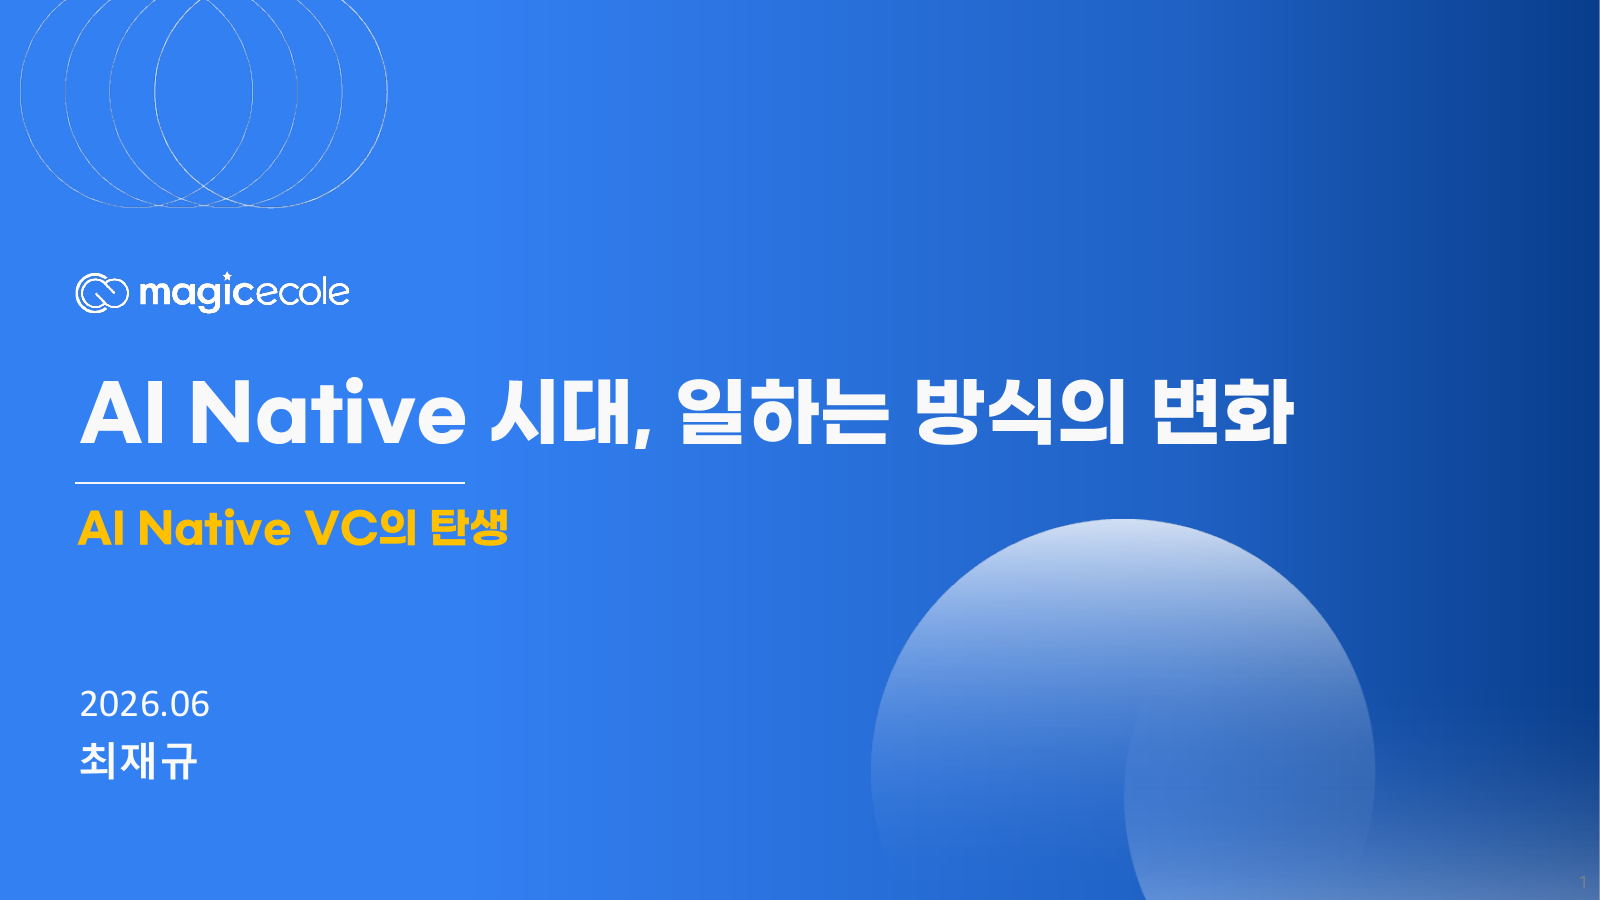
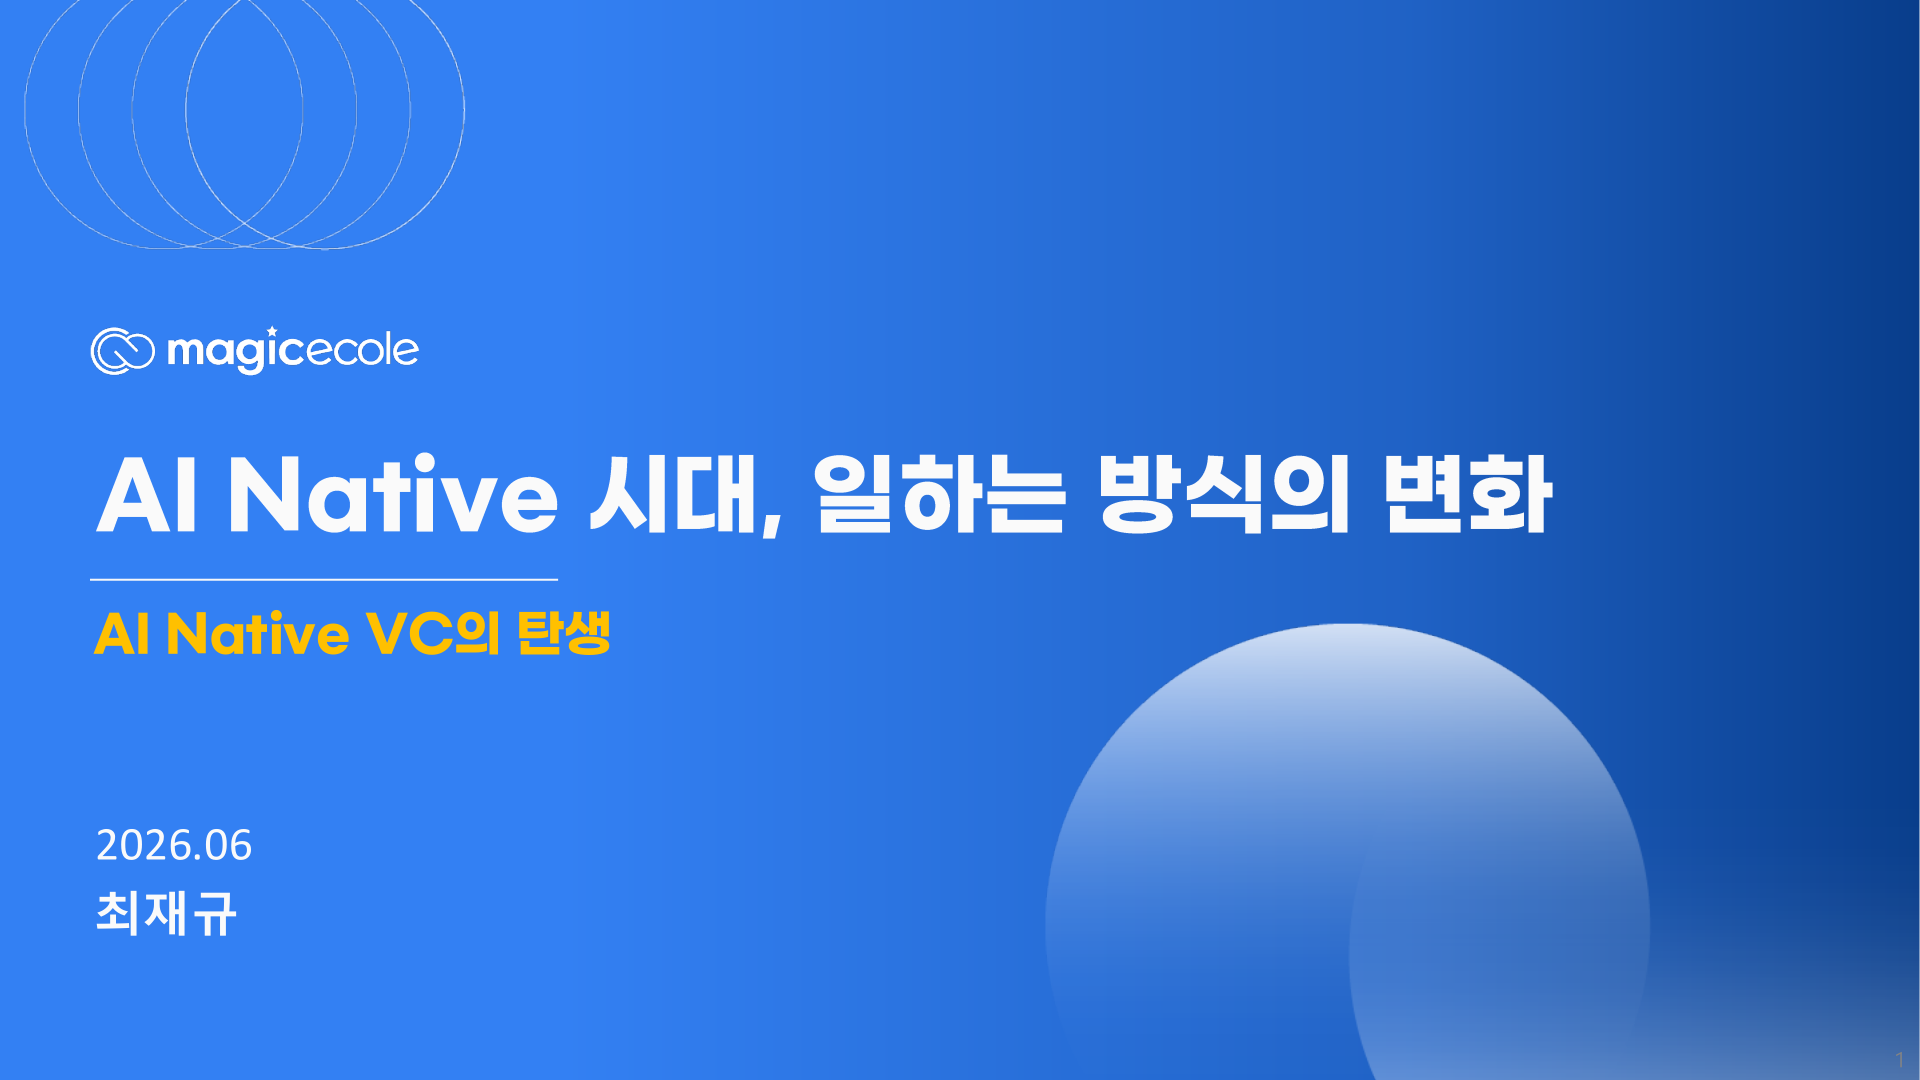
Update SV seminar materials

diff --git a/index.html b/index.html
@@ -151,7 +151,7 @@
             <p class="section-kicker">6/25 강의자료 보강</p>
             <h2>강의자료는 방향을 잡고, 이 페이지는 복습과 적용을 돕습니다.</h2>
             <p>
-              79페이지 강의자료의 흐름은 AI 기술의 속도, AI Native와 Harness 사례,
+              85페이지 강의자료의 흐름은 AI 기술의 속도, AI Native와 Harness 사례,
               업무 도입 방식, Prompt/Context/Harness/Loop, SV AX 전략으로 이어집니다.
               강의 후에는 아래 순서대로 다시 보면 업무 적용 포인트가 선명해집니다.
             </p>
@@ -204,8 +204,8 @@
         <div class="topic-grid">
           <article>
             <p class="role">AI 리터러시</p>
-            <h3>모델 성능표를 업무 언어로 읽기</h3>
-            <p>벤치마크 순위보다 어떤 업무가 사람 검토 전 초안화될 수 있는지 연결해서 봅니다.</p>
+            <h3>모델 성능표와 시장 리포트를 업무 언어로 읽기</h3>
+            <p>벤치마크, 시트르니 보고서 같은 외부 리포트를 기술 뉴스가 아니라 업무 변화 신호로 해석합니다.</p>
           </article>
           <article>
             <p class="role">도구 분류</p>
@@ -229,8 +229,8 @@
           </article>
           <article>
             <p class="role">운영 설계</p>
-            <h3>MCP·Connector·Skill의 안전한 사용</h3>
-            <p>외부 자료 연결은 공개자료, 권한, 로그, 승인 기준을 먼저 정한 뒤 선택 실습으로 다룹니다.</p>
+            <h3>Skill/MCP로 업무 절차 연결하기</h3>
+            <p>Skill은 심사역의 판단 절차를 AI에 가르치고, MCP·Connector는 자료와 업무 시스템 연결을 승인 기준 안에서 다룹니다.</p>
           </article>
         </div>
       </section>